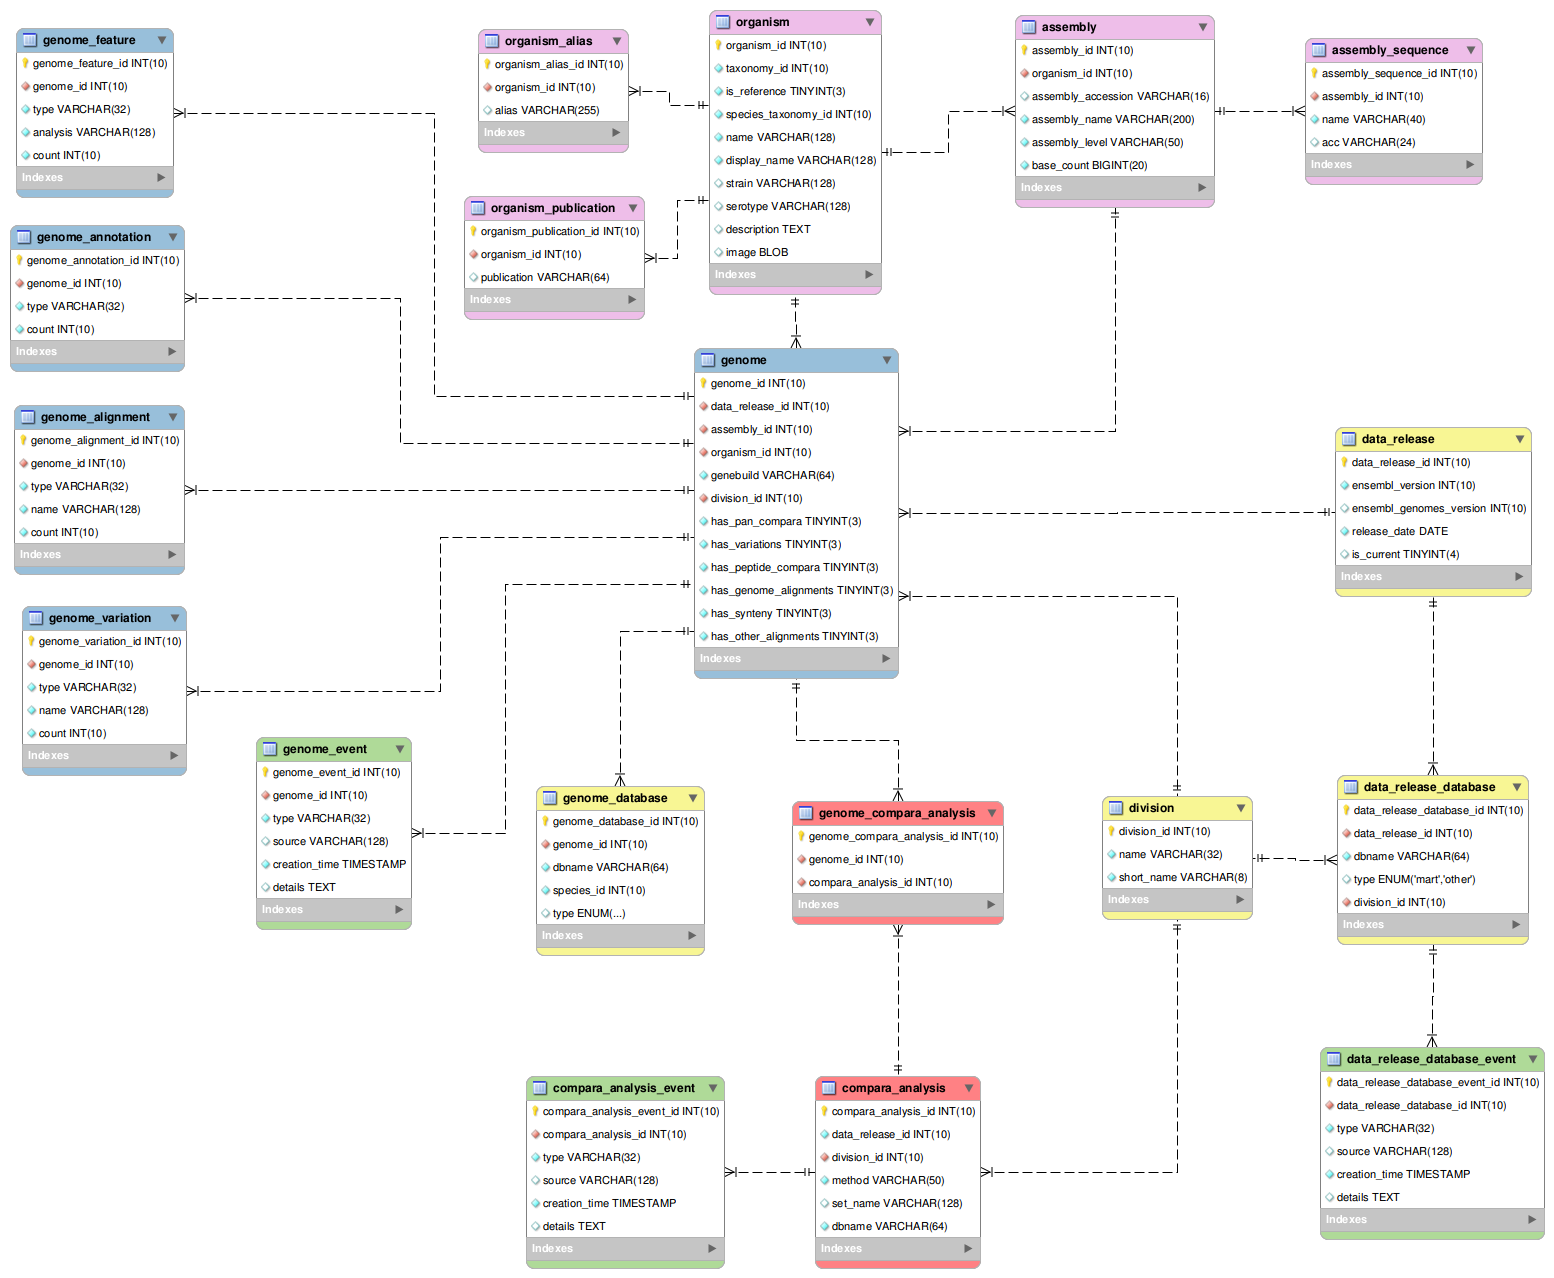
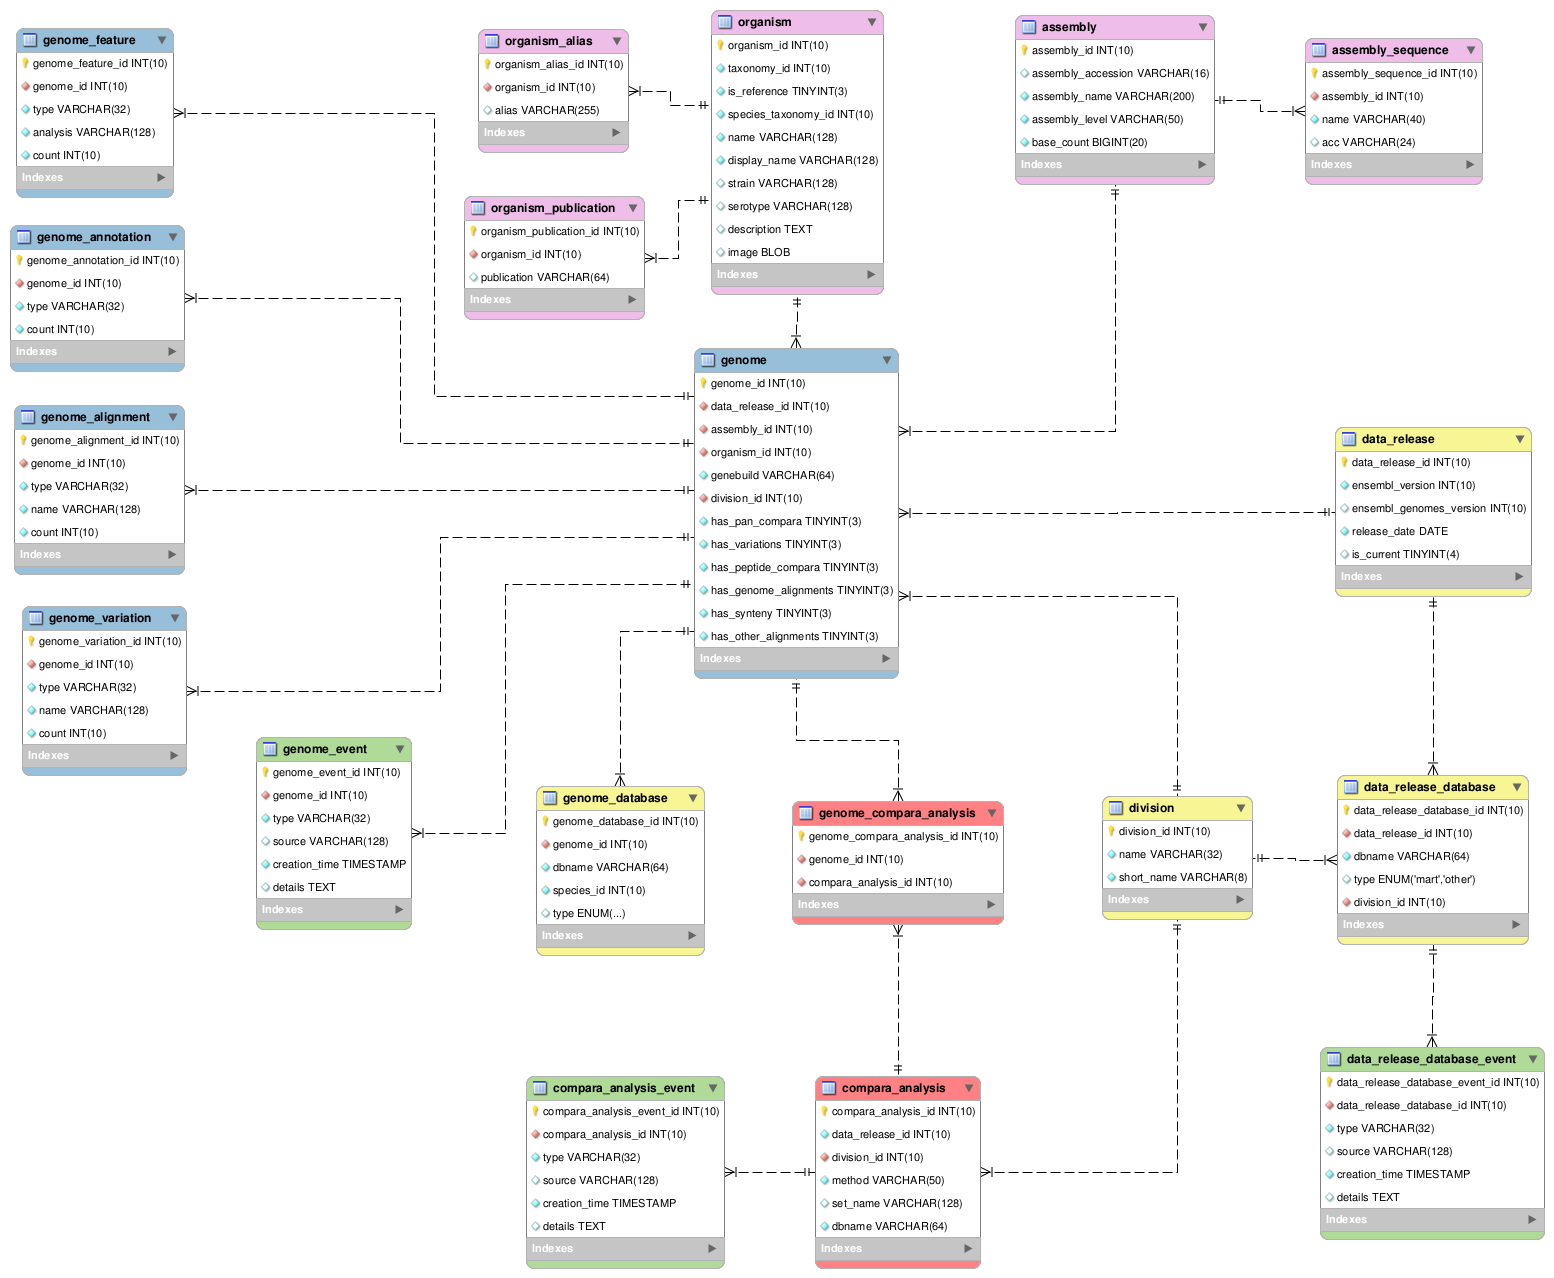
removed organism from assembly to allow organism name, taxonomy etc to vary independently of an assembly

diff --git a/README.md b/README.md
@@ -39,7 +39,6 @@ my $gdba = Bio::EnsEMBL::MetaData::DBSQL::GenomeInfoAdaptor->new(
 
 Information about genomes is encapsulated in GenomeInfo objects, which can be found in a number of ways from the adaptor:
 ```
-
 # find and iterate over all genomes
 for my $genome (@{$gdba->fetch_all()}) {
 	print $genome->name()."\n";
@@ -104,10 +103,10 @@ Note that a DBAdaptor can also be created directly from a GenomeInfo object via 
 The `ensembl-metadata` API follows the same conventions as the core Ensembl APIs, with data objects stored and retrieved in the database via adaptors. For each of the following objects, there is a corresponding adaptor e.g. GenomeInfo is handled by GenomeInfoAdaptor. The adaptor is responsible for storing/updating objects, and for fetching them from the database.
 
 ### GenomeInfo
-The central object in the implementation is GenomeInfo, which represents a specific version of a _genome_ from a specific release. Besides attributes such as annotation, genebuild etc., it also encapsulates an AssemblyInfo object.
+The central object in the implementation is GenomeInfo, which represents a specific version of a _genome_ from a specific release. Besides attributes such as annotation, genebuild etc., it also encapsulates an AssemblyInfo object and an OrganismInfo object.
 
 ### AssemblyInfo
-This represents a particular assembly of a genome, and is independent of data releases. It encapsulates an OrganismInfo object. It also provides access to a list of top-level sequence.
+This represents a particular assembly of a genome, and is independent of data releases. It also provides access to a list of top-level sequence. Note that Assembly is independent of Organism. This is because the taxonomy of an organism can change extensively following the release of an assembly. Currently GenomeInfo represents the intersection of assembly and organism.
 
 ### OrganismInfo
 This represents a particular organism (regardless of taxonomic rank), and is independent of a data release. 
